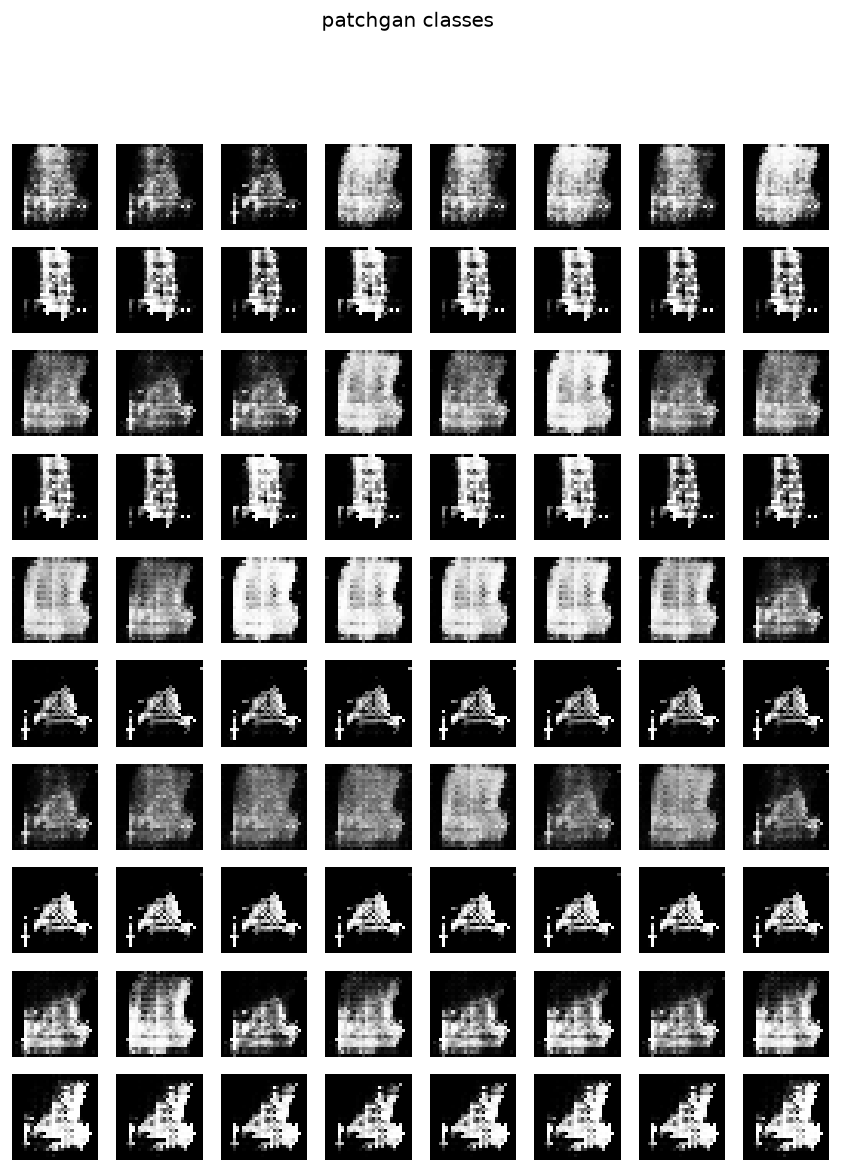
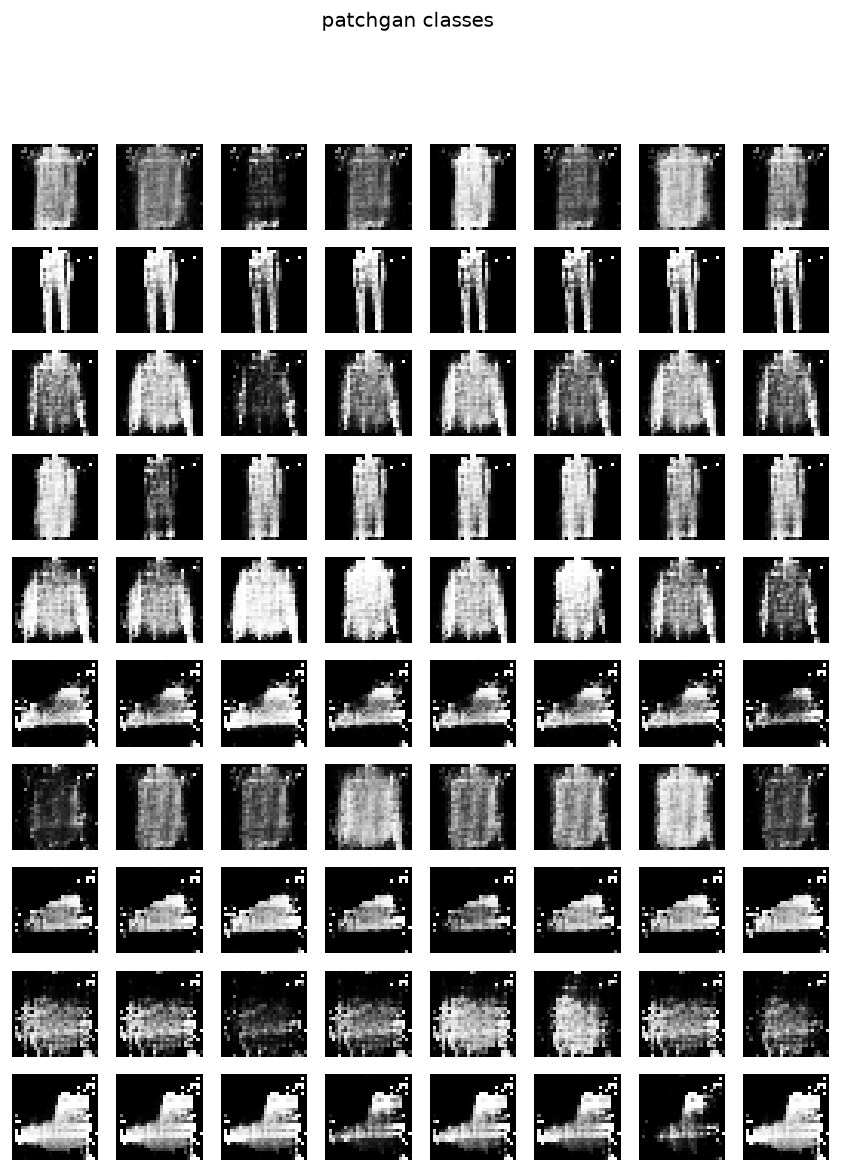
feat: publish the current report site
The Pages build should serve the updated GAN figures and the progressive GAN summary.

diff --git a/docs/index.html b/docs/index.html
@@ -20,7 +20,7 @@
       <header class="hero">
         <p class="eyebrow">Homework report · digits, Fashion-MNIST, CIFAR-10</p>
         <h1>Generative models on MNIST</h1>
-        <p class="lede">The autoencoder and the variational models reconstruct. Fashion is the easier sample domain, because a soft decoder still reads as clothing. The RealNVP digits run lowers bits per dimension and then flattens, and its inverse samples are still stroke fragments. Both vanilla GANs collapse to one shape. Conditioning on the class label brings sample spread in line with real images on digits and on Fashion. PatchGAN’s digits class grid is still two glyphs, and feature matching keeps a generator loss above its BCE term. The progressive GAN still has no CIFAR archive.</p>
+        <p class="lede">The autoencoder and the variational models reconstruct. Fashion is the easier sample domain, because a soft decoder still reads as clothing. The RealNVP digits run lowers bits per dimension and then flattens, and its inverse samples are still stroke fragments. Both vanilla GANs collapse to one shape. Conditioning on the class label brings sample spread in line with real images on digits and on Fashion. PatchGAN separates garments and still repeats one digit glyph. Feature matching keeps the class rows, and its generator loss sits above BCE because of the feature term. The progressive GAN grows from 4×4 to 32×32, and the last grid is one gray field.</p>
         <ul class="jump" id="jump"></ul>
       </header>
       <div id="chapters"></div>
